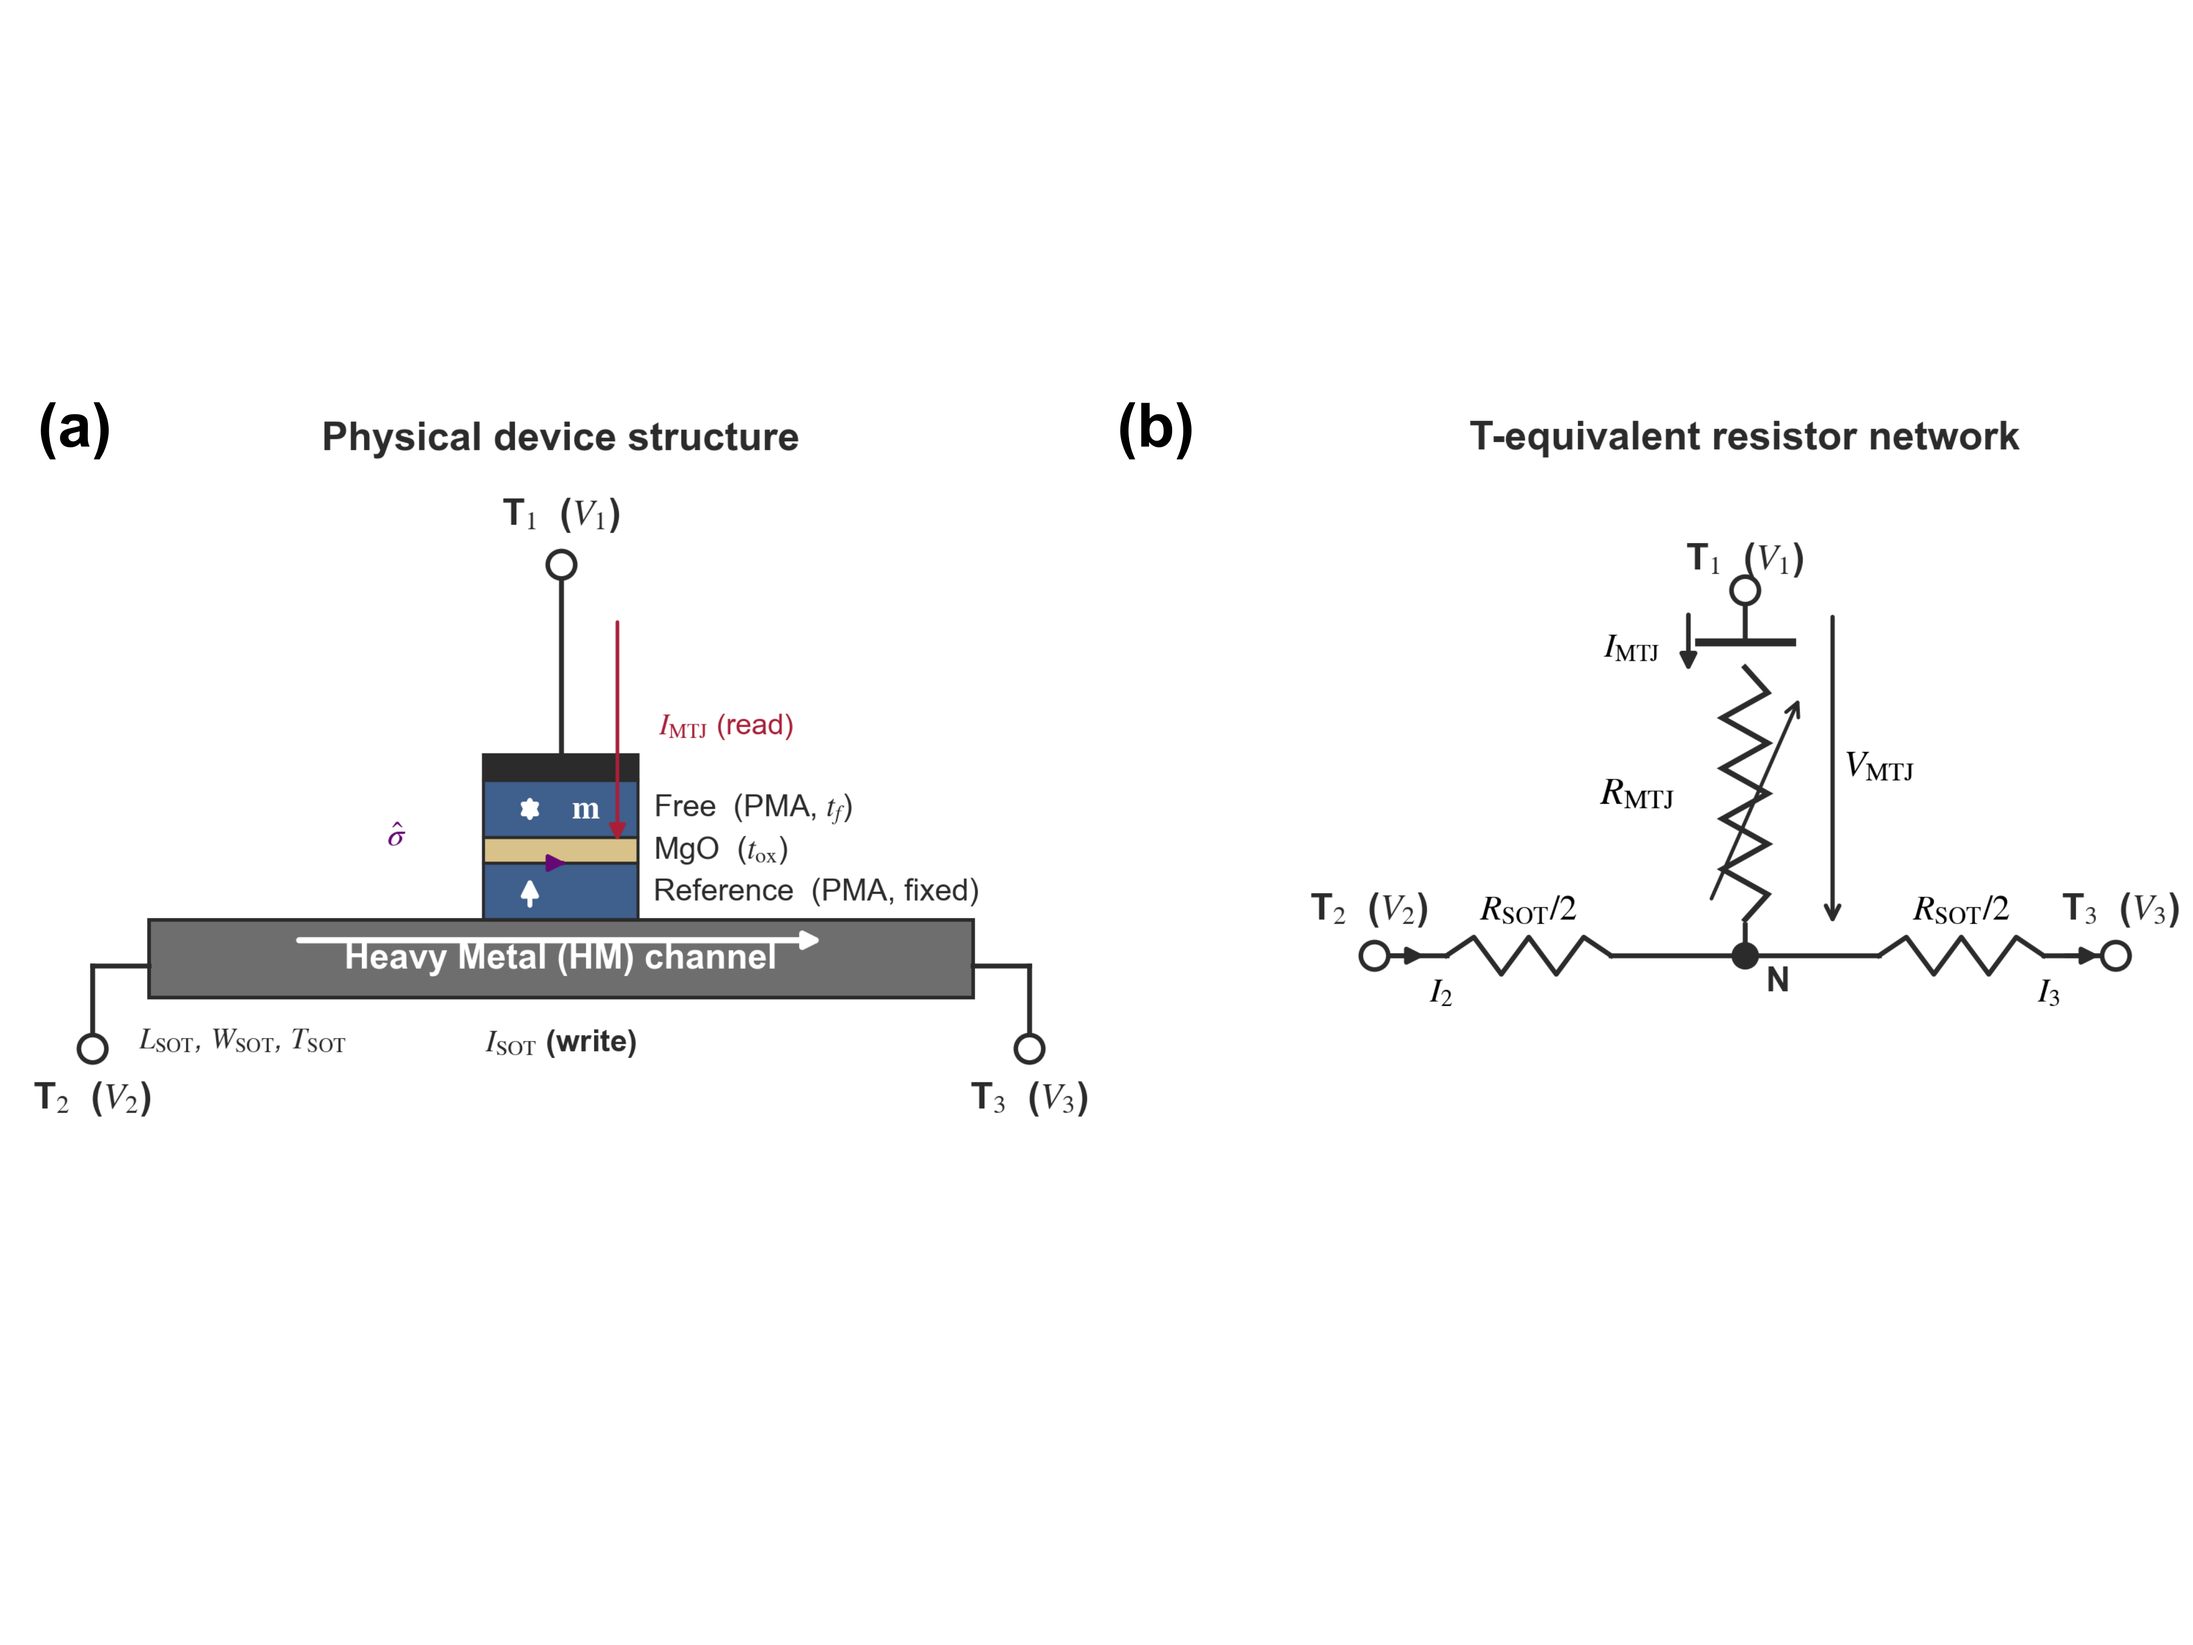
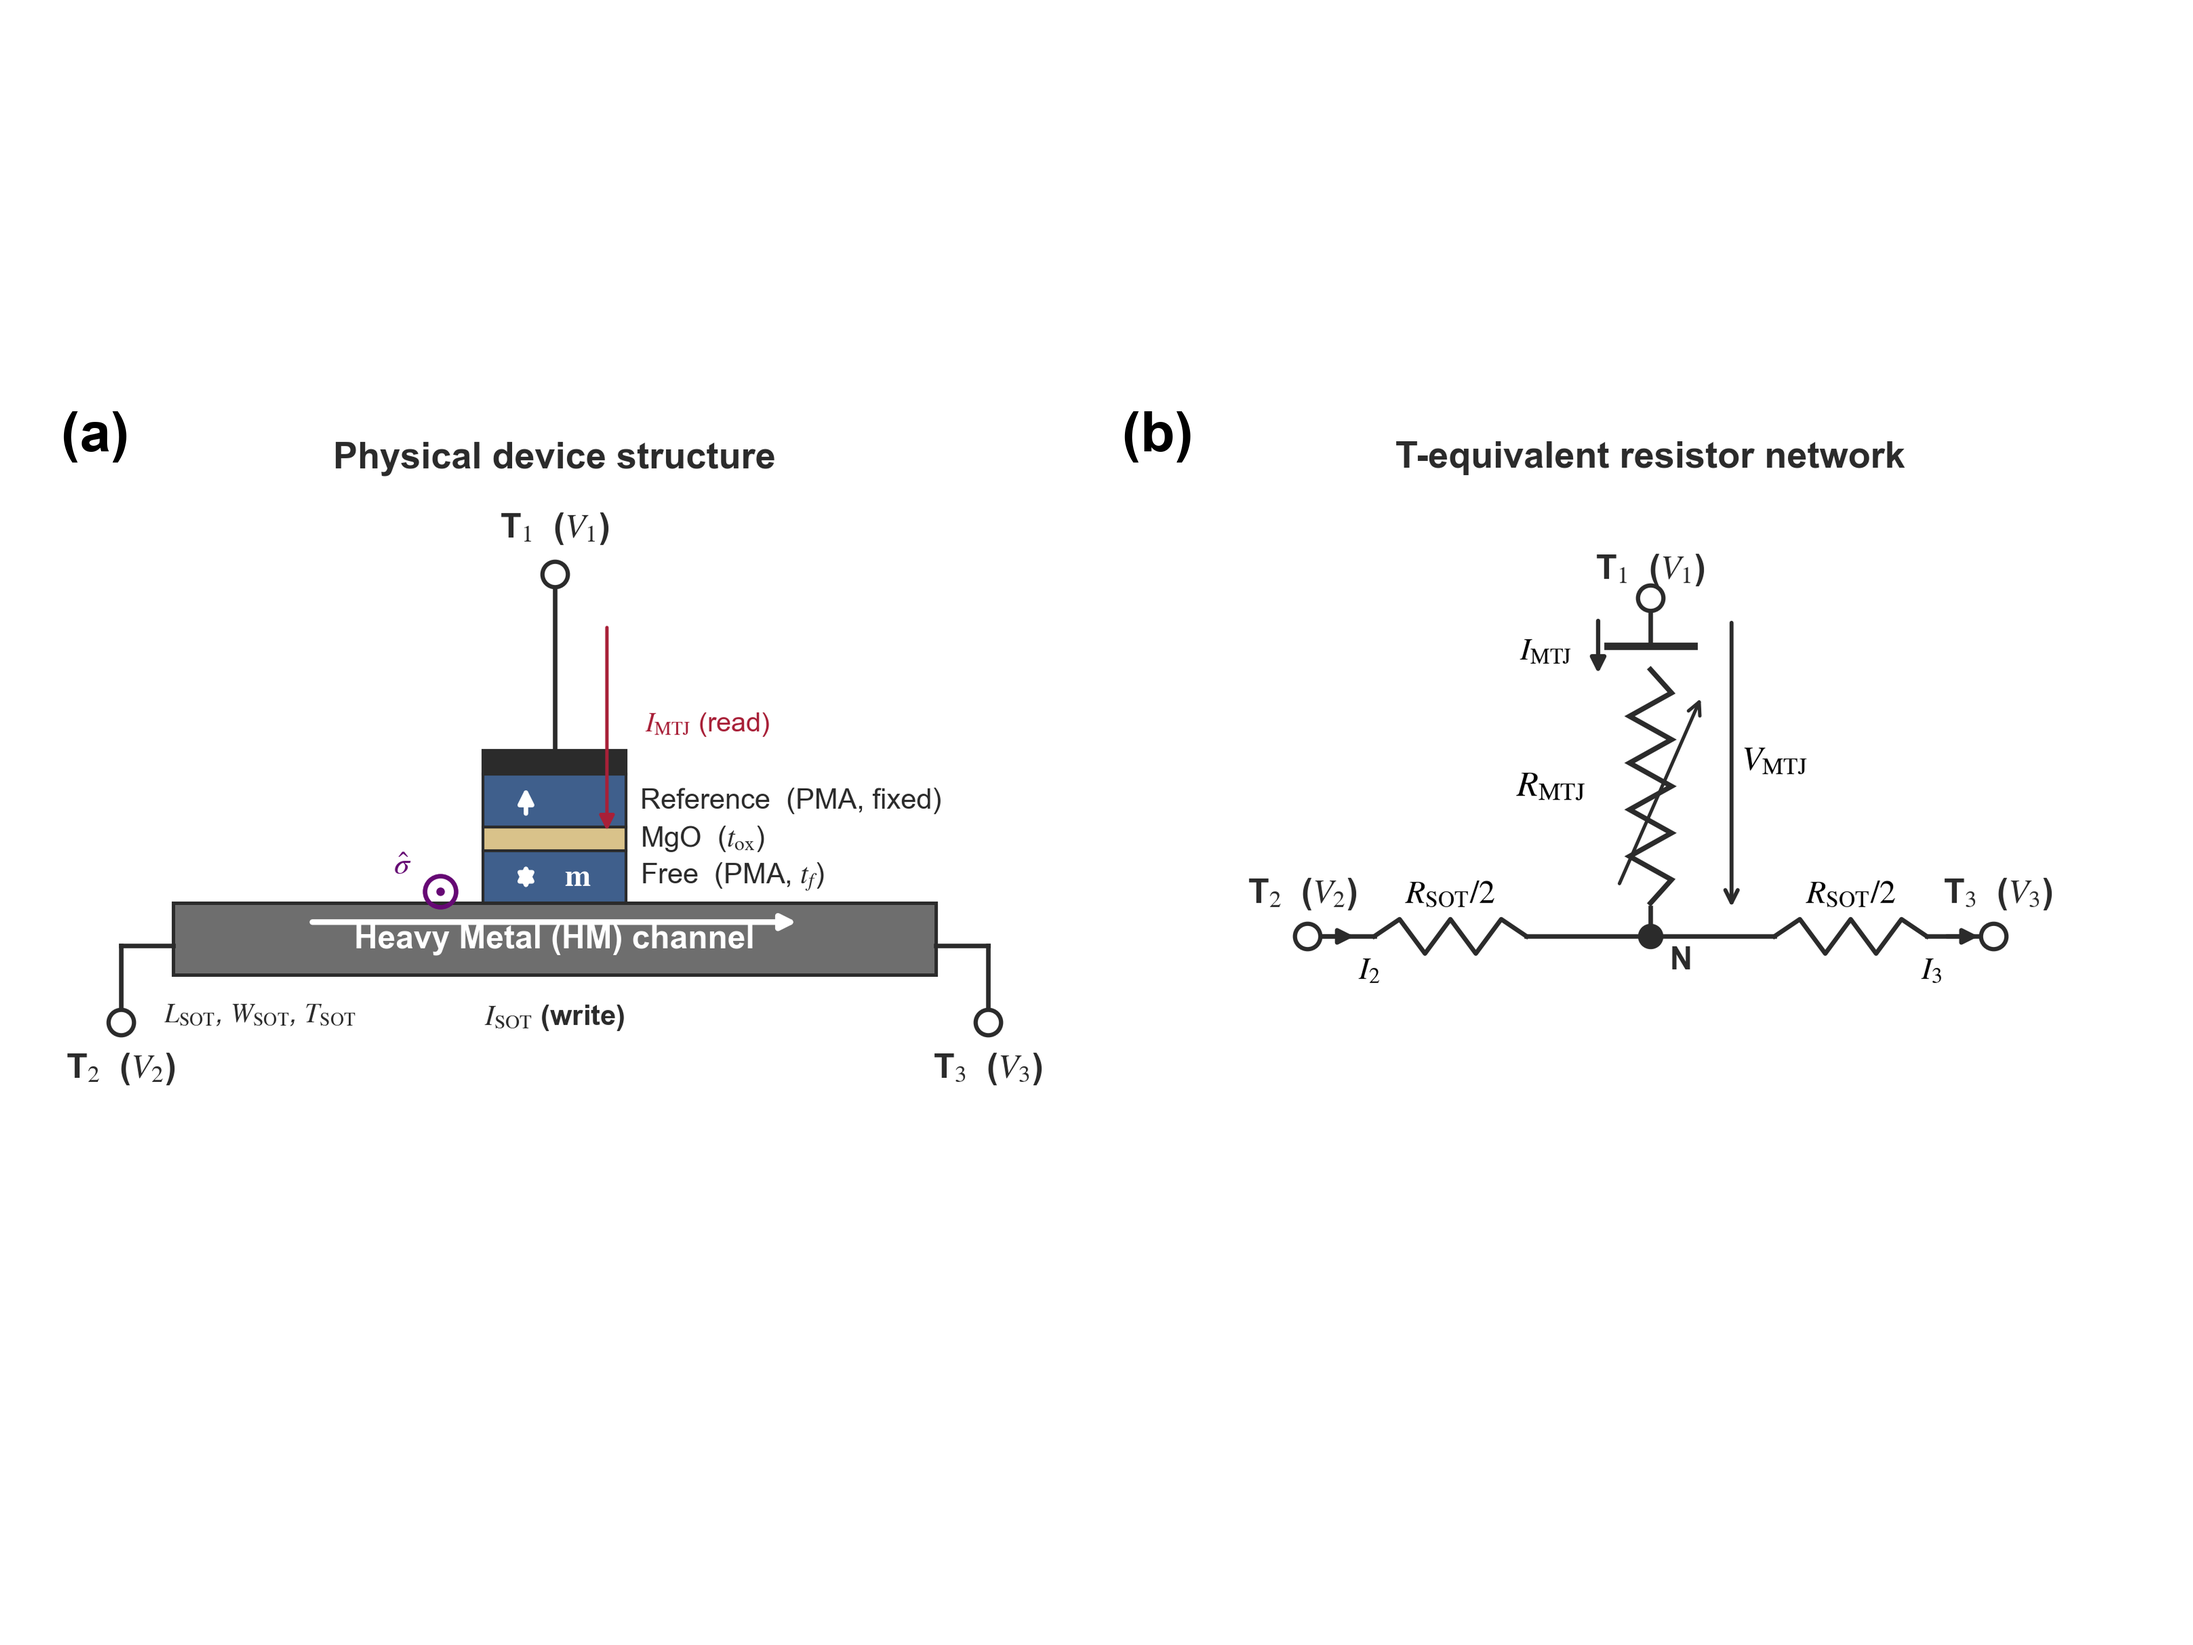
fix(fig2.1): free layer must sit on the HM channel; sigma out-of-plane
Panel (a) had the Reference layer at the pillar bottom (on the heavy-metal
channel) and the Free layer on top — swapped: the SOT acts on the layer
adjacent to the channel, so the stack is HM / Free (m, switchable) / MgO /
Reference (fixed) bottom-to-top. Also the spin-Hall polarisation sigma was
drawn parallel to I_SOT; it is perpendicular to the current, out of the
page in this side view, now drawn as a circle-dot at the HM/FL interface.
Stale panel sync path (article/00_chapter_drafts) redirected to the raw
panel dir article/ppt/ per the figure conventions; final figs PNG
re-assembled with the (a)/(b) tags at the previous export layout.

diff --git a/demo/plot_t_circuit.py b/demo/plot_t_circuit.py
@@ -1,17 +1,20 @@
 """
 图 2.1.1 — 三端SOT-sMTJ器件结构与T型等效电路网络。
 
-左侧子图：物理堆叠示意。HM沟道（重金属）为底层水平条带；其上为MTJ柱
-（参考层 / MgO势垒 / 自由层），自由层与参考层均以PMA箭头标出。MTJ顶电极
-为 T1，HM沟道两端为 T2、T3。写电流 I_SOT 经 T2→T3 沿沟道流过产生
-横向自旋积累 (σ̂)；读路径仅在 T1 与沟道接地端之间施加小偏压。
+左侧子图：物理堆叠示意。HM沟道（重金属）为底层水平条带；其上为MTJ柱，
+自下而上为 自由层 / MgO势垒 / 参考层——自由层必须与HM沟道相邻，SOT力矩
+才作用于它（2026-07 勘误：初版曾把参考层画在柱底、自由层在顶，已交换）。
+MTJ顶电极为 T1，HM沟道两端为 T2、T3。写电流 I_SOT 经 T2→T3 沿沟道流过，
+在HM/自由层界面产生自旋积累，其极化方向 σ̂ 垂直于电流（本侧视图中为出面
+方向，画作 ⊙）；读路径仅在 T1 与沟道接地端之间施加小偏压。
 
 右侧子图：T型等效电阻网络。R_MTJ 为隧穿电阻（用可变电阻符号表示），
 HM沟道沿长度方向均分为两段 R_SOT/2，三段电阻在中间节点 N 处汇合。
 读出操作在 T1—N 之间获取 V_MTJ；写入操作在 T2—T3 之间施加 V_2 − V_3
 驱动 I_SOT = (V_2 − V_3) / R_SOT。
 
-输出：Chapter02_local_01.png（本目录 + 同步到 ../article/00_chapter_drafts/figs/）
+输出：Chapter02_local_01.png（本目录 + 同步到 ../article/ppt/ 原始面板目录；
+面板 (a)(b) 标注按图表规范由 PPT 装配时添加，再导出到 article/figs/）。
 """
 from pathlib import Path
 import shutil
@@ -58,29 +61,11 @@ ax_l.text(5.0, (HM_Y0 + HM_Y1) / 2.0, "Heavy Metal (HM) channel",
 ax_l.text(HM_X0 - 0.10, HM_Y0 - 0.30, r"$L_{\rm SOT}$, $W_{\rm SOT}$, $T_{\rm SOT}$",
           ha="left", va="top", fontsize=9.5, color=CHARCOAL, style="italic")
 
-# MTJ pillar (centred on HM)
+# MTJ pillar (centred on HM). Stack order (bottom -> top): Free / MgO / Reference —
+# the free layer MUST sit on the HM channel so the SOT acts on it.
 MTJ_CX, MTJ_HW = 5.0, 0.75
-# Reference layer (bottom of pillar, on top of HM)
-RL_Y0, RL_Y1 = HM_Y1, HM_Y1 + 0.55
-ax_l.add_patch(Rectangle((MTJ_CX - MTJ_HW, RL_Y0), 2 * MTJ_HW, RL_Y1 - RL_Y0,
-                          facecolor=FM_BLUE, edgecolor=CHARCOAL, lw=1.0))
-ax_l.text(MTJ_CX + MTJ_HW + 0.15, (RL_Y0 + RL_Y1) / 2.0, "Reference  (PMA, fixed)",
-          ha="left", va="center", fontsize=10, color=CHARCOAL)
-# PMA arrow (reference layer, fixed up)
-ax_l.annotate("", xy=(MTJ_CX - 0.30, RL_Y1 - 0.08),
-              xytext=(MTJ_CX - 0.30, RL_Y0 + 0.08),
-              arrowprops=dict(arrowstyle="-|>", color=NEAR_WHITE, lw=1.6))
-
-# MgO barrier
-MGO_Y0, MGO_Y1 = RL_Y1, RL_Y1 + 0.25
-ax_l.add_patch(Rectangle((MTJ_CX - MTJ_HW, MGO_Y0), 2 * MTJ_HW, MGO_Y1 - MGO_Y0,
-                          facecolor=MGO_TAN, edgecolor=CHARCOAL, lw=1.0))
-ax_l.text(MTJ_CX + MTJ_HW + 0.15, (MGO_Y0 + MGO_Y1) / 2.0,
-          r"MgO  ($t_{\rm ox}$)",
-          ha="left", va="center", fontsize=10, color=CHARCOAL)
-
-# Free layer (top of pillar)
-FL_Y0, FL_Y1 = MGO_Y1, MGO_Y1 + 0.55
+# Free layer (bottom of pillar, on top of HM — receives the SOT)
+FL_Y0, FL_Y1 = HM_Y1, HM_Y1 + 0.55
 ax_l.add_patch(Rectangle((MTJ_CX - MTJ_HW, FL_Y0), 2 * MTJ_HW, FL_Y1 - FL_Y0,
                           facecolor=FM_BLUE, edgecolor=CHARCOAL, lw=1.0))
 ax_l.text(MTJ_CX + MTJ_HW + 0.15, (FL_Y0 + FL_Y1) / 2.0,
@@ -93,8 +78,27 @@ ax_l.annotate("", xy=(MTJ_CX - 0.30, FL_Y1 - 0.08),
 ax_l.text(MTJ_CX + 0.10, (FL_Y0 + FL_Y1) / 2.0, r"$\mathbf{m}$",
           ha="left", va="center", fontsize=11, color=NEAR_WHITE, fontweight="bold")
 
+# MgO barrier
+MGO_Y0, MGO_Y1 = FL_Y1, FL_Y1 + 0.25
+ax_l.add_patch(Rectangle((MTJ_CX - MTJ_HW, MGO_Y0), 2 * MTJ_HW, MGO_Y1 - MGO_Y0,
+                          facecolor=MGO_TAN, edgecolor=CHARCOAL, lw=1.0))
+ax_l.text(MTJ_CX + MTJ_HW + 0.15, (MGO_Y0 + MGO_Y1) / 2.0,
+          r"MgO  ($t_{\rm ox}$)",
+          ha="left", va="center", fontsize=10, color=CHARCOAL)
+
+# Reference layer (top of pillar, fixed)
+RL_Y0, RL_Y1 = MGO_Y1, MGO_Y1 + 0.55
+ax_l.add_patch(Rectangle((MTJ_CX - MTJ_HW, RL_Y0), 2 * MTJ_HW, RL_Y1 - RL_Y0,
+                          facecolor=FM_BLUE, edgecolor=CHARCOAL, lw=1.0))
+ax_l.text(MTJ_CX + MTJ_HW + 0.15, (RL_Y0 + RL_Y1) / 2.0, "Reference  (PMA, fixed)",
+          ha="left", va="center", fontsize=10, color=CHARCOAL)
+# PMA arrow (reference layer, fixed up)
+ax_l.annotate("", xy=(MTJ_CX - 0.30, RL_Y1 - 0.08),
+              xytext=(MTJ_CX - 0.30, RL_Y0 + 0.08),
+              arrowprops=dict(arrowstyle="-|>", color=NEAR_WHITE, lw=1.6))
+
 # Top electrode (T1)
-TOP_Y0, TOP_Y1 = FL_Y1, FL_Y1 + 0.25
+TOP_Y0, TOP_Y1 = RL_Y1, RL_Y1 + 0.25
 ax_l.add_patch(Rectangle((MTJ_CX - MTJ_HW, TOP_Y0), 2 * MTJ_HW, TOP_Y1 - TOP_Y0,
                           facecolor=CHARCOAL, edgecolor=CHARCOAL, lw=1.0))
 
@@ -131,18 +135,20 @@ ax_l.annotate("", xy=(7.6, HM_Y1 - 0.20),
 ax_l.text(5.0, HM_Y0 - 0.30, r"$I_{\rm SOT}$ (write)",
           ha="center", va="top", fontsize=10, color=CHARCOAL, fontweight="bold")
 
-# Spin-accumulation arrow under the free layer (perpendicular to current)
-ax_l.annotate("", xy=(MTJ_CX + 0.05, HM_Y1 + 0.55),
-              xytext=(MTJ_CX - 0.05, HM_Y1 + 0.55),
-              arrowprops=dict(arrowstyle="-|>", color=THU_DEEP, lw=1.4))
-ax_l.text(MTJ_CX - 1.50, HM_Y1 + 0.65, r"$\hat{\sigma}$",
+# Spin accumulation at the HM/free-layer interface. For J along +x the spin-Hall
+# polarisation is PERPENDICULAR to the current — out of the page in this side
+# view — so draw the circle-dot symbol, not an in-plane arrow.
+SIG_X, SIG_Y = MTJ_CX - MTJ_HW - 0.45, HM_Y1 + 0.12
+ax_l.plot(SIG_X, SIG_Y, "o", ms=11, mec=THU_DEEP, mfc="none", mew=1.6, zorder=3)
+ax_l.plot(SIG_X, SIG_Y, ".", ms=4, color=THU_DEEP, zorder=3)
+ax_l.text(SIG_X - 0.30, SIG_Y + 0.12, r"$\hat{\sigma}$",
           ha="right", va="bottom", fontsize=11, color=THU_DEEP, fontweight="bold")
 
 # I_MTJ small arrow (read path, downward through MTJ)
-ax_l.annotate("", xy=(MTJ_CX + 0.55, FL_Y0 - 0.10),
+ax_l.annotate("", xy=(MTJ_CX + 0.55, RL_Y0 - 0.10),
               xytext=(MTJ_CX + 0.55, T1_Y - 0.50),
               arrowprops=dict(arrowstyle="-|>", color=CRIMSON, lw=1.2))
-ax_l.text(MTJ_CX + 0.95, (FL_Y0 + T1_Y - 0.5) / 2, r"$I_{\rm MTJ}$ (read)",
+ax_l.text(MTJ_CX + 0.95, (RL_Y0 + T1_Y - 0.5) / 2, r"$I_{\rm MTJ}$ (read)",
           ha="left", va="center", fontsize=9.5, color=CRIMSON)
 
 # Sub-title without panel tag
@@ -282,8 +288,11 @@ out_path = Path(__file__).resolve().parent / "Chapter02_local_01.png"
 plt.savefig(out_path, dpi=300, bbox_inches="tight", facecolor="white",
             pad_inches=0.15)
 plt.close()
+# Sync the clean panel to the raw-panel dir used for PPT assembly. Per the figure
+# conventions the (a)/(b) tags are added in the PPT and exported to article/figs/;
+# this script never writes into the final-figure dir.
 chapter_fig = (Path(__file__).resolve().parent.parent /
-               "article" / "00_chapter_drafts" / "figs" / "Chapter02_local_01.png")
+               "article" / "ppt" / "Chapter02_local_01.png")
 chapter_fig.parent.mkdir(parents=True, exist_ok=True)
 shutil.copy(out_path, chapter_fig)
 print(f"Saved  {out_path}")
